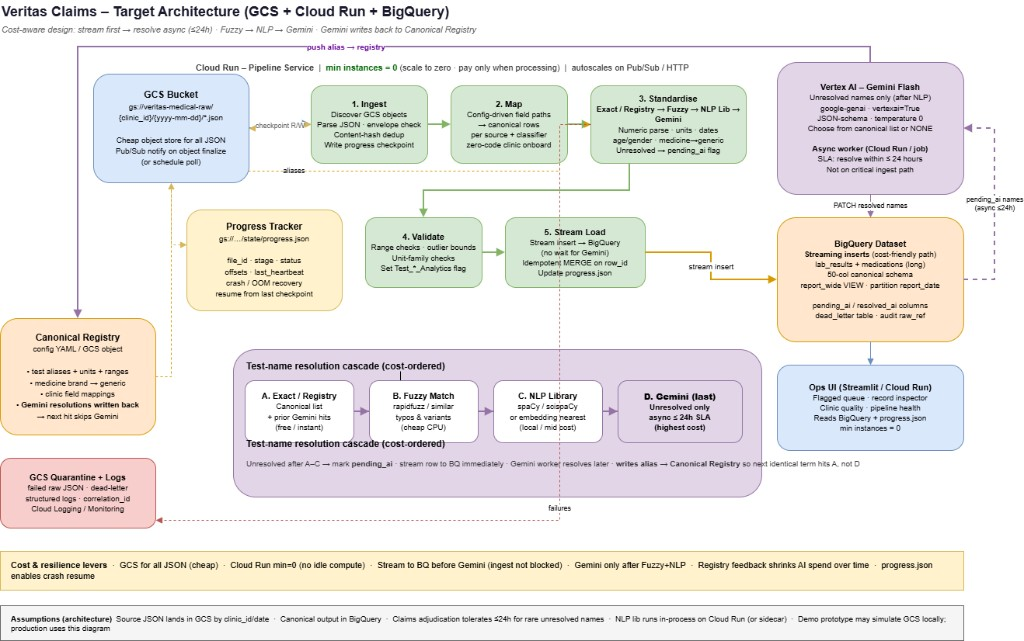
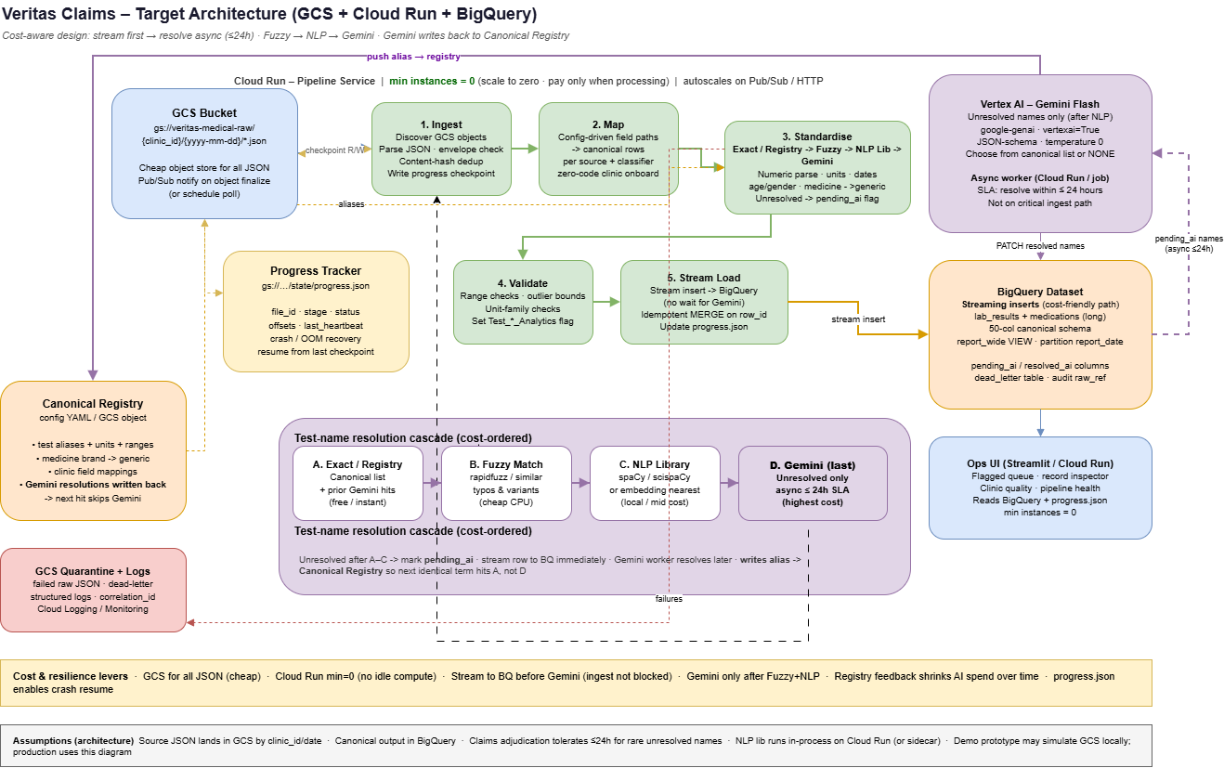
updated

diff --git a/src/veritas/api.py b/src/veritas/api.py
@@ -3,7 +3,7 @@ from __future__ import annotations
 from typing import Any
 
 from fastapi import FastAPI
-from pydantic import BaseModel
+from pydantic import BaseModel, ConfigDict, Field
 
 from veritas.pipeline.runner import run_pipeline
 from veritas.registry import Registry
@@ -15,8 +15,19 @@ app = FastAPI(title="Veritas Claims Pipeline", version="0.1.0")
 
 
 class RunRequest(BaseModel):
+    """Accepts pipeline options; ignores unknown keys (e.g. Console Test ``name``)."""
+
+    model_config = ConfigDict(extra="ignore")
+
     prefix: str = ""
     limit: int | None = None
+    # Cloud Run Console "Test" panel sends {"name": "Developer"} by default
+    name: str | None = Field(default=None, description="Ignored; Console Test compatibility")
+
+
+def _execute_run(req: RunRequest | None = None) -> dict[str, Any]:
+    req = req or RunRequest()
+    return run_pipeline(prefix=req.prefix, limit=req.limit)
 
 
 @app.get("/health")
@@ -25,8 +36,14 @@ def health() -> dict[str, str]:
 
 
 @app.post("/run")
-def run(req: RunRequest) -> dict[str, Any]:
-    return run_pipeline(prefix=req.prefix, limit=req.limit)
+def run(req: RunRequest = RunRequest()) -> dict[str, Any]:
+    return _execute_run(req)
+
+
+@app.post("/")
+def run_root(req: RunRequest = RunRequest()) -> dict[str, Any]:
+    """Same as POST /run — so Cloud Run Console Test (POST /) works."""
+    return _execute_run(req)
 
 
 @app.post("/ai-worker/run")
@@ -44,5 +61,5 @@ def root() -> dict[str, str]:
         "service": "veritas-pipeline",
         "docs": "/docs",
         "health": "/health",
-        "run": "POST /run",
+        "run": "POST / or POST /run with JSON body {} (or Console default)",
     }

diff --git a/README.md b/README.md
@@ -63,9 +63,19 @@ Exact registry → `rapidfuzz` → NLP token similarity → Gemini (`pending_ai`
 | BigQuery | `veritas-claims-512706.veritas_claims_demo.canonical_records` |
 
 ```powershell
-# Re-trigger pipeline
-curl.exe -X POST "https://veritas-pipeline-233971633808.us-central1.run.app/run" -H "Content-Type: application/json" -d "{}"
+# Preferred
+curl.exe -X POST "https://veritas-pipeline-233971633808.us-central1.run.app/run" `
+  -H "Authorization: Bearer $(gcloud auth print-identity-token)" `
+  -H "Content-Type: application/json" -d "{}"
+
+# Cloud Run Console "Test" panel (POST /) also works — body may be {"name":"Developer"}
+curl.exe -X POST "https://veritas-pipeline-233971633808.us-central1.run.app/" `
+  -H "Authorization: Bearer $(gcloud auth print-identity-token)" `
+  -H "Content-Type: application/json" `
+  -d "{\"name\": \"Developer\"}"
 ```
+
+`files_ok: 0` with `files_total: 5` usually means samples already completed (idempotent). Clear `gs://…/state/progress.json` to force a full reprocess.
 
 Verified cloud run: **5 files → 442 rows** (362 lab / 74 medication / 6 discharge).
 
